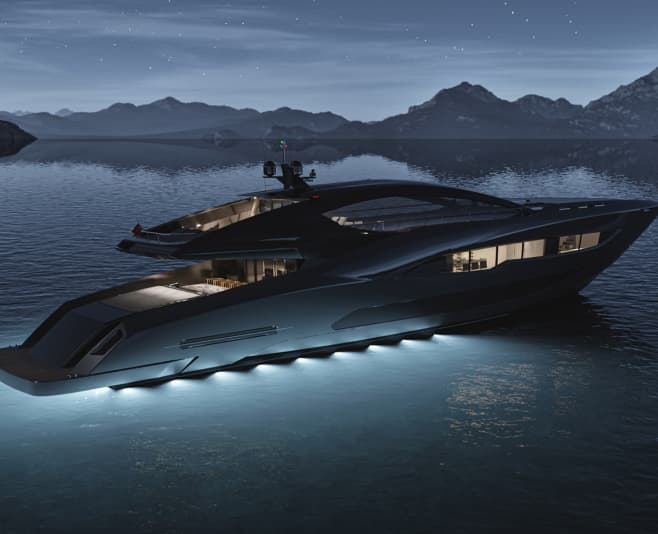
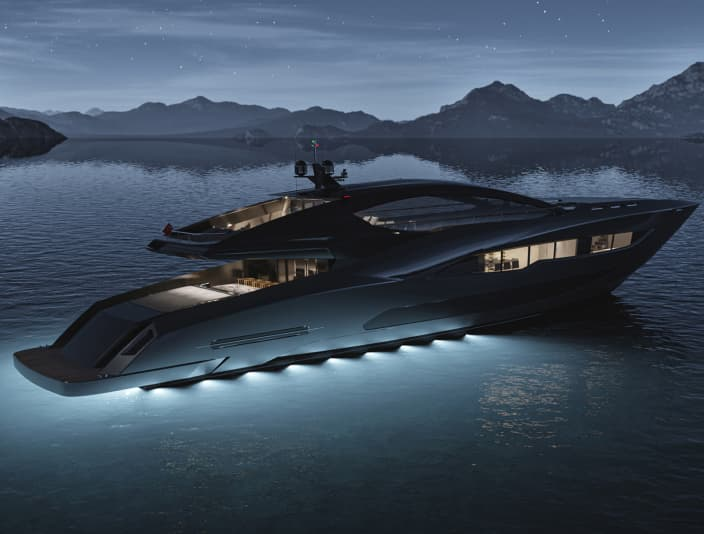
commit-change-padd
позабирав лишні падінги при медіазапитах; добавив ретина-зображення для 2x; поправив відображення зображень для  ПК та tab

diff --git a/src/css/rent.css b/src/css/rent.css
@@ -8,8 +8,8 @@
 .rent-imput-form {
   display: flex;
   flex-direction: column;
-  gap: 18px;
 }
+
 .rent-title {
   font-family: 'Inter', sans-serif;
   font-weight: 500;
@@ -27,6 +27,7 @@
   max-width: 100%;
   height: 42px;
   background-color: inherit;
+  margin-bottom: 18px;
 }
 .rent-imput::placeholder {
   font-family: 'Inter', sans-serif;
@@ -80,8 +81,8 @@
 
 @media screen and (min-width: 768px) {
   .rent {
-    padding: 150px 32px;
-    max-width: 100%;
+    padding: 150px 0px;
+    /* max-width: 100%; */
     width: 768px;
     min-height: 962px;
   }
@@ -125,18 +126,19 @@
     font-size: 18px;
     line-height: 1.1;
     letter-spacing: -0.02em;
-    margin-bottom: 118px;
+    margin-bottom: 100px;
   }
   .rent-section-img {
-    width: 100%;
+    width: 704px;
     height: 534px;
+    object-fit: none;
   }
 }
 
 @media screen and (min-width: 1280px) {
   .rent {
-    padding: 150px 50px;
-    max-width: 100%;
+    padding: 75px 0px;
+    /* max-width: 100%; */
     width: 1280px;
     min-height: 800px;
   }
@@ -153,7 +155,7 @@
   }
 
   .rent-section-img {
-    width: 658;
+    width: 658px;
     height: 536px;
     order: -1;
   }

diff --git a/src/partials/rent.html b/src/partials/rent.html
@@ -23,8 +23,8 @@
           class="rent-imput"
         />
         <textarea
-          name=""
-          id=""
+          name="Comment"
+          id="Comment"
           placeholder="Comment"
           class="rent-text-imput"
         ></textarea>
@@ -32,8 +32,10 @@
       </form>
     </div>
     <img
-      src="/img/rent/rent-yacht.jpg"
-      alt="A yacht on a lake among mountains"
+      srcset="../img/rent/rent-yacht.jpg 1x, ../img/rent/rent-yacht@2x.jpg 2x"
+      src="../img/rent/rent-yacht.jpg"
+      alt="A yacht on a lake among
+    mountains"
       class="rent-section-img"
     />
   </div>
